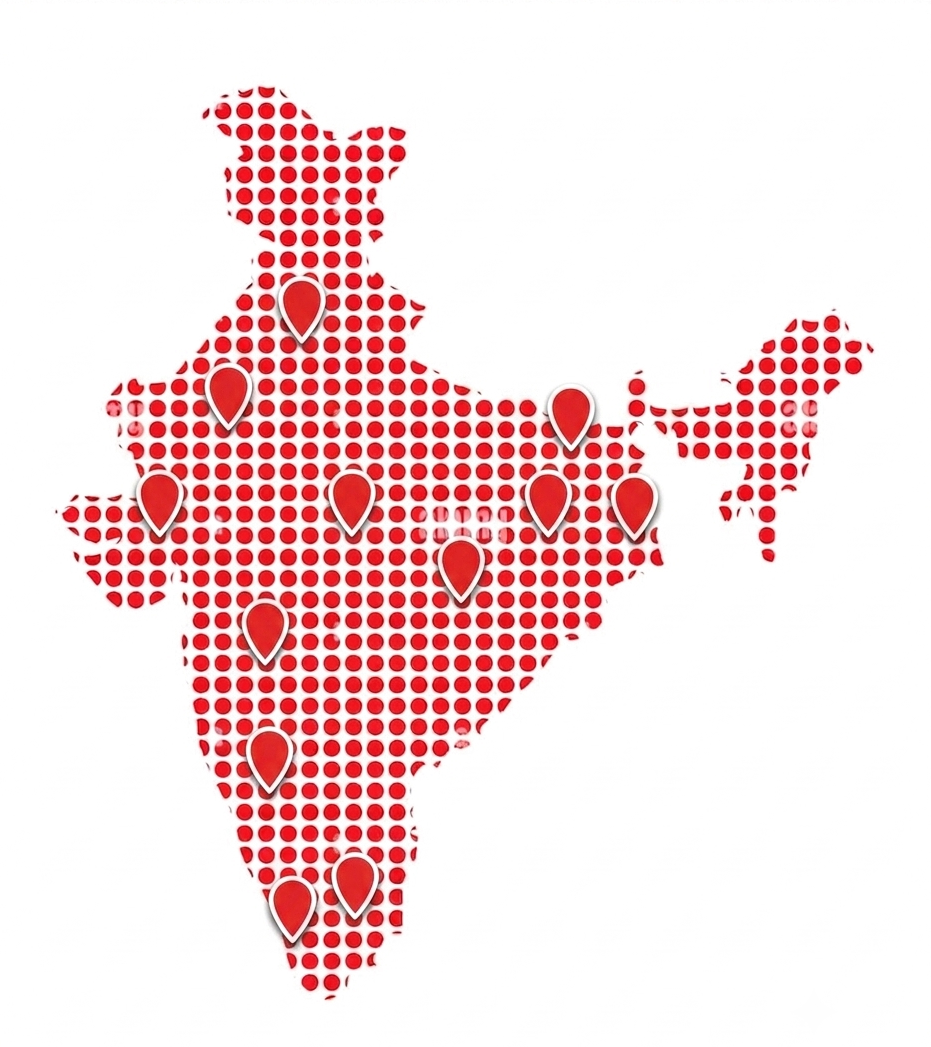
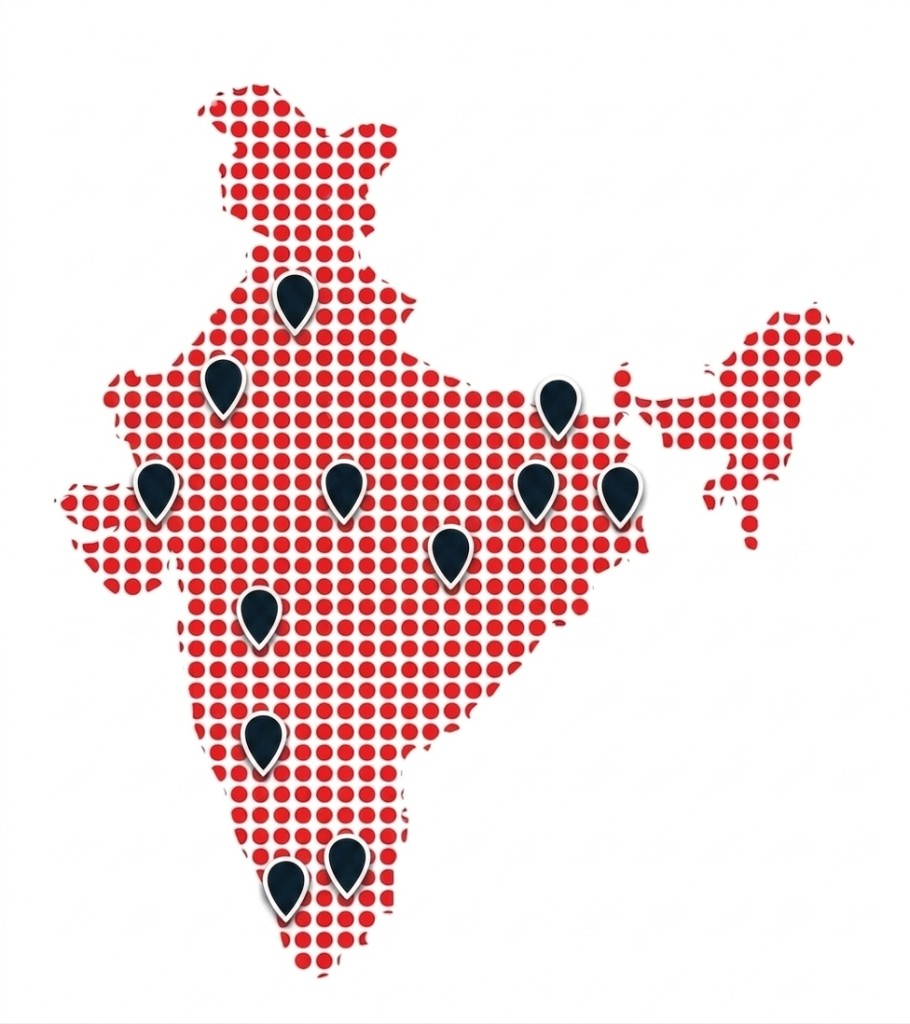
other changes | India Map

diff --git a/src/components/About.tsx b/src/components/About.tsx
@@ -31,6 +31,7 @@ const LEADERS = [
   {
     name: 'Vijay Gupta',
     role: 'Founder & Visionary Leader, Gupta Traders',
+    image: '/assets/Vijay Gupta.jpeg',
     paragraphs: [
       'Vijay Gupta is the Founder and Visionary Leader of Gupta Traders, a leading provider of electrical, industrial, and infrastructure solutions. With a Bachelor of Commerce (B.Com.) and a strong entrepreneurial vision, he has successfully transformed a family-owned business into a dynamic, growth-oriented enterprise recognized for its quality, reliability, and customer-centric approach.',
       'Under his leadership, Gupta Traders has evolved from a traditional trading business into a trusted partner for large-scale infrastructure and railway projects across India. By consistently delivering excellence and fostering long-term relationships with government agencies, public sector organizations, industrial clients, and infrastructure developers, Vijay has established the company as a dependable name in the industry.',
@@ -42,6 +43,7 @@ const LEADERS = [
   {
     name: 'Harsh Gupta',
     role: 'Managing Director',
+    image: '/assets/Harsh Gupta.jpeg',
     paragraphs: [
       'Harsh Gupta is the current Managing Director of Gupta Traders, leading the company\'s strategic growth and operations with a strong focus on innovation, operational excellence, and sustainable infrastructure development. With a degree in Electrical Engineering and extensive experience in the railway infrastructure sector, he brings a unique combination of technical expertise, project leadership, and business acumen.',
       'Having been an integral part of Gupta Traders for over six years, Harsh has progressed through key leadership roles, beginning his journey as a Site Engineer before advancing to Project Manager, Chief Project Manager, and ultimately Managing Director. This hands-on experience across engineering, project execution, and business operations has equipped him with a comprehensive understanding of the industry and the ability to lead complex, high-value infrastructure projects.',
@@ -165,17 +167,22 @@ export function About() {
             {LEADERS.map((leader, index) => (
               <Reveal key={leader.name} delay={120 + index * 80}>
                 <article className="card-surface rounded-2xl p-6 md:p-8 h-full">
-                  <h3 className="font-display text-xl md:text-2xl font-semibold text-ink-900 mb-2">
-                    About{' '}
-                    <span className="text-brand-600">{leader.name}</span>
-                  </h3>
-                  {'role' in leader && leader.role ? (
-                    <p className="text-sm font-medium text-brand-600 mb-5">
-                      {leader.role}
-                    </p>
-                  ) : (
-                    <div className="mb-3" />
-                  )}
+                  <div className="flex flex-col sm:flex-row sm:items-start gap-5 mb-6">
+                    <img
+                      src={leader.image}
+                      alt={leader.name}
+                      className="h-28 w-28 sm:h-32 sm:w-32 shrink-0 rounded-xl object-cover object-top border border-ink-900/8"
+                    />
+                    <div>
+                      <h3 className="font-display text-xl md:text-2xl font-semibold text-ink-900 mb-2">
+                        About{' '}
+                        <span className="text-brand-600">{leader.name}</span>
+                      </h3>
+                      <p className="text-sm font-medium text-brand-600">
+                        {leader.role}
+                      </p>
+                    </div>
+                  </div>
                   <div className="space-y-4 text-ink-900/70 text-base leading-relaxed">
                     {leader.paragraphs.map((paragraph, pIndex) => (
                       <p key={pIndex}>{paragraph}</p>

diff --git a/src/components/WhyChooseUs.tsx b/src/components/WhyChooseUs.tsx
@@ -37,8 +37,8 @@ export function WhyChooseUs() {
           <Reveal>
             <span className="section-eyebrow">Why Choose Us</span>
             <h2 className="mt-4 font-display text-4xl md:text-5xl font-semibold tracking-tight text-ink-900">
-              Why businesses
-              <span className="text-brand-600"> trust Gupta Traders</span>
+              Built on Quality,{" "}
+              <span className="text-brand-600">Driven by Trust</span>
             </h2>
           </Reveal>
         </div>
